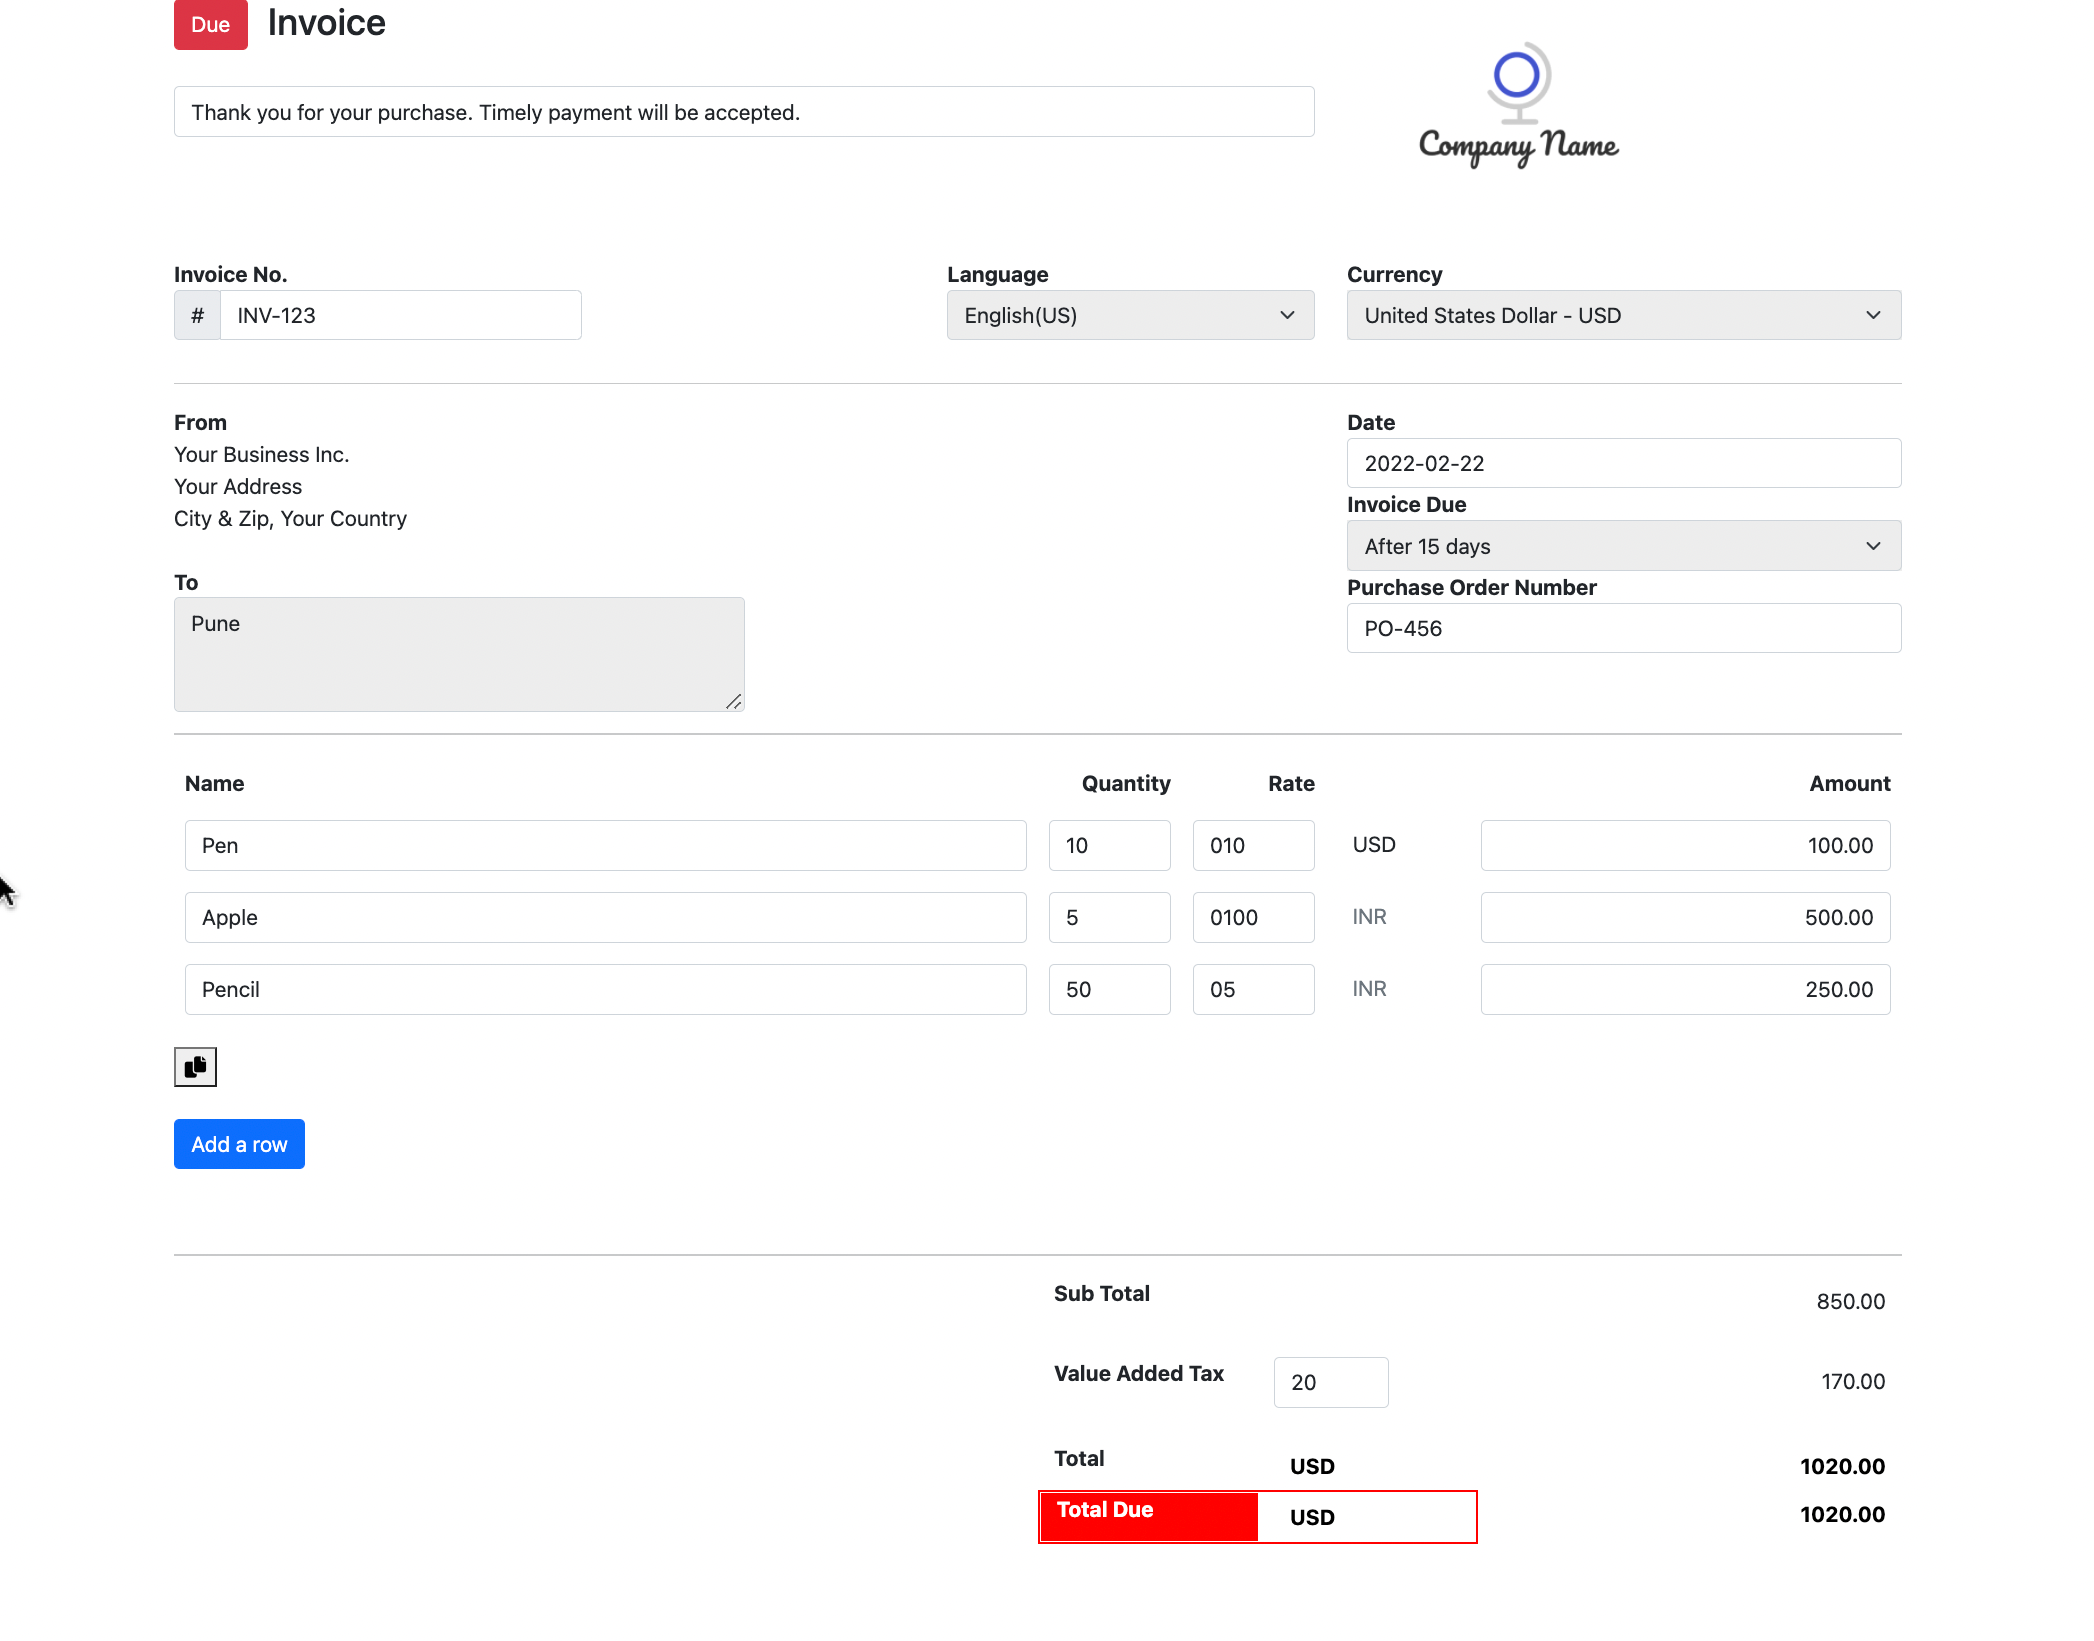
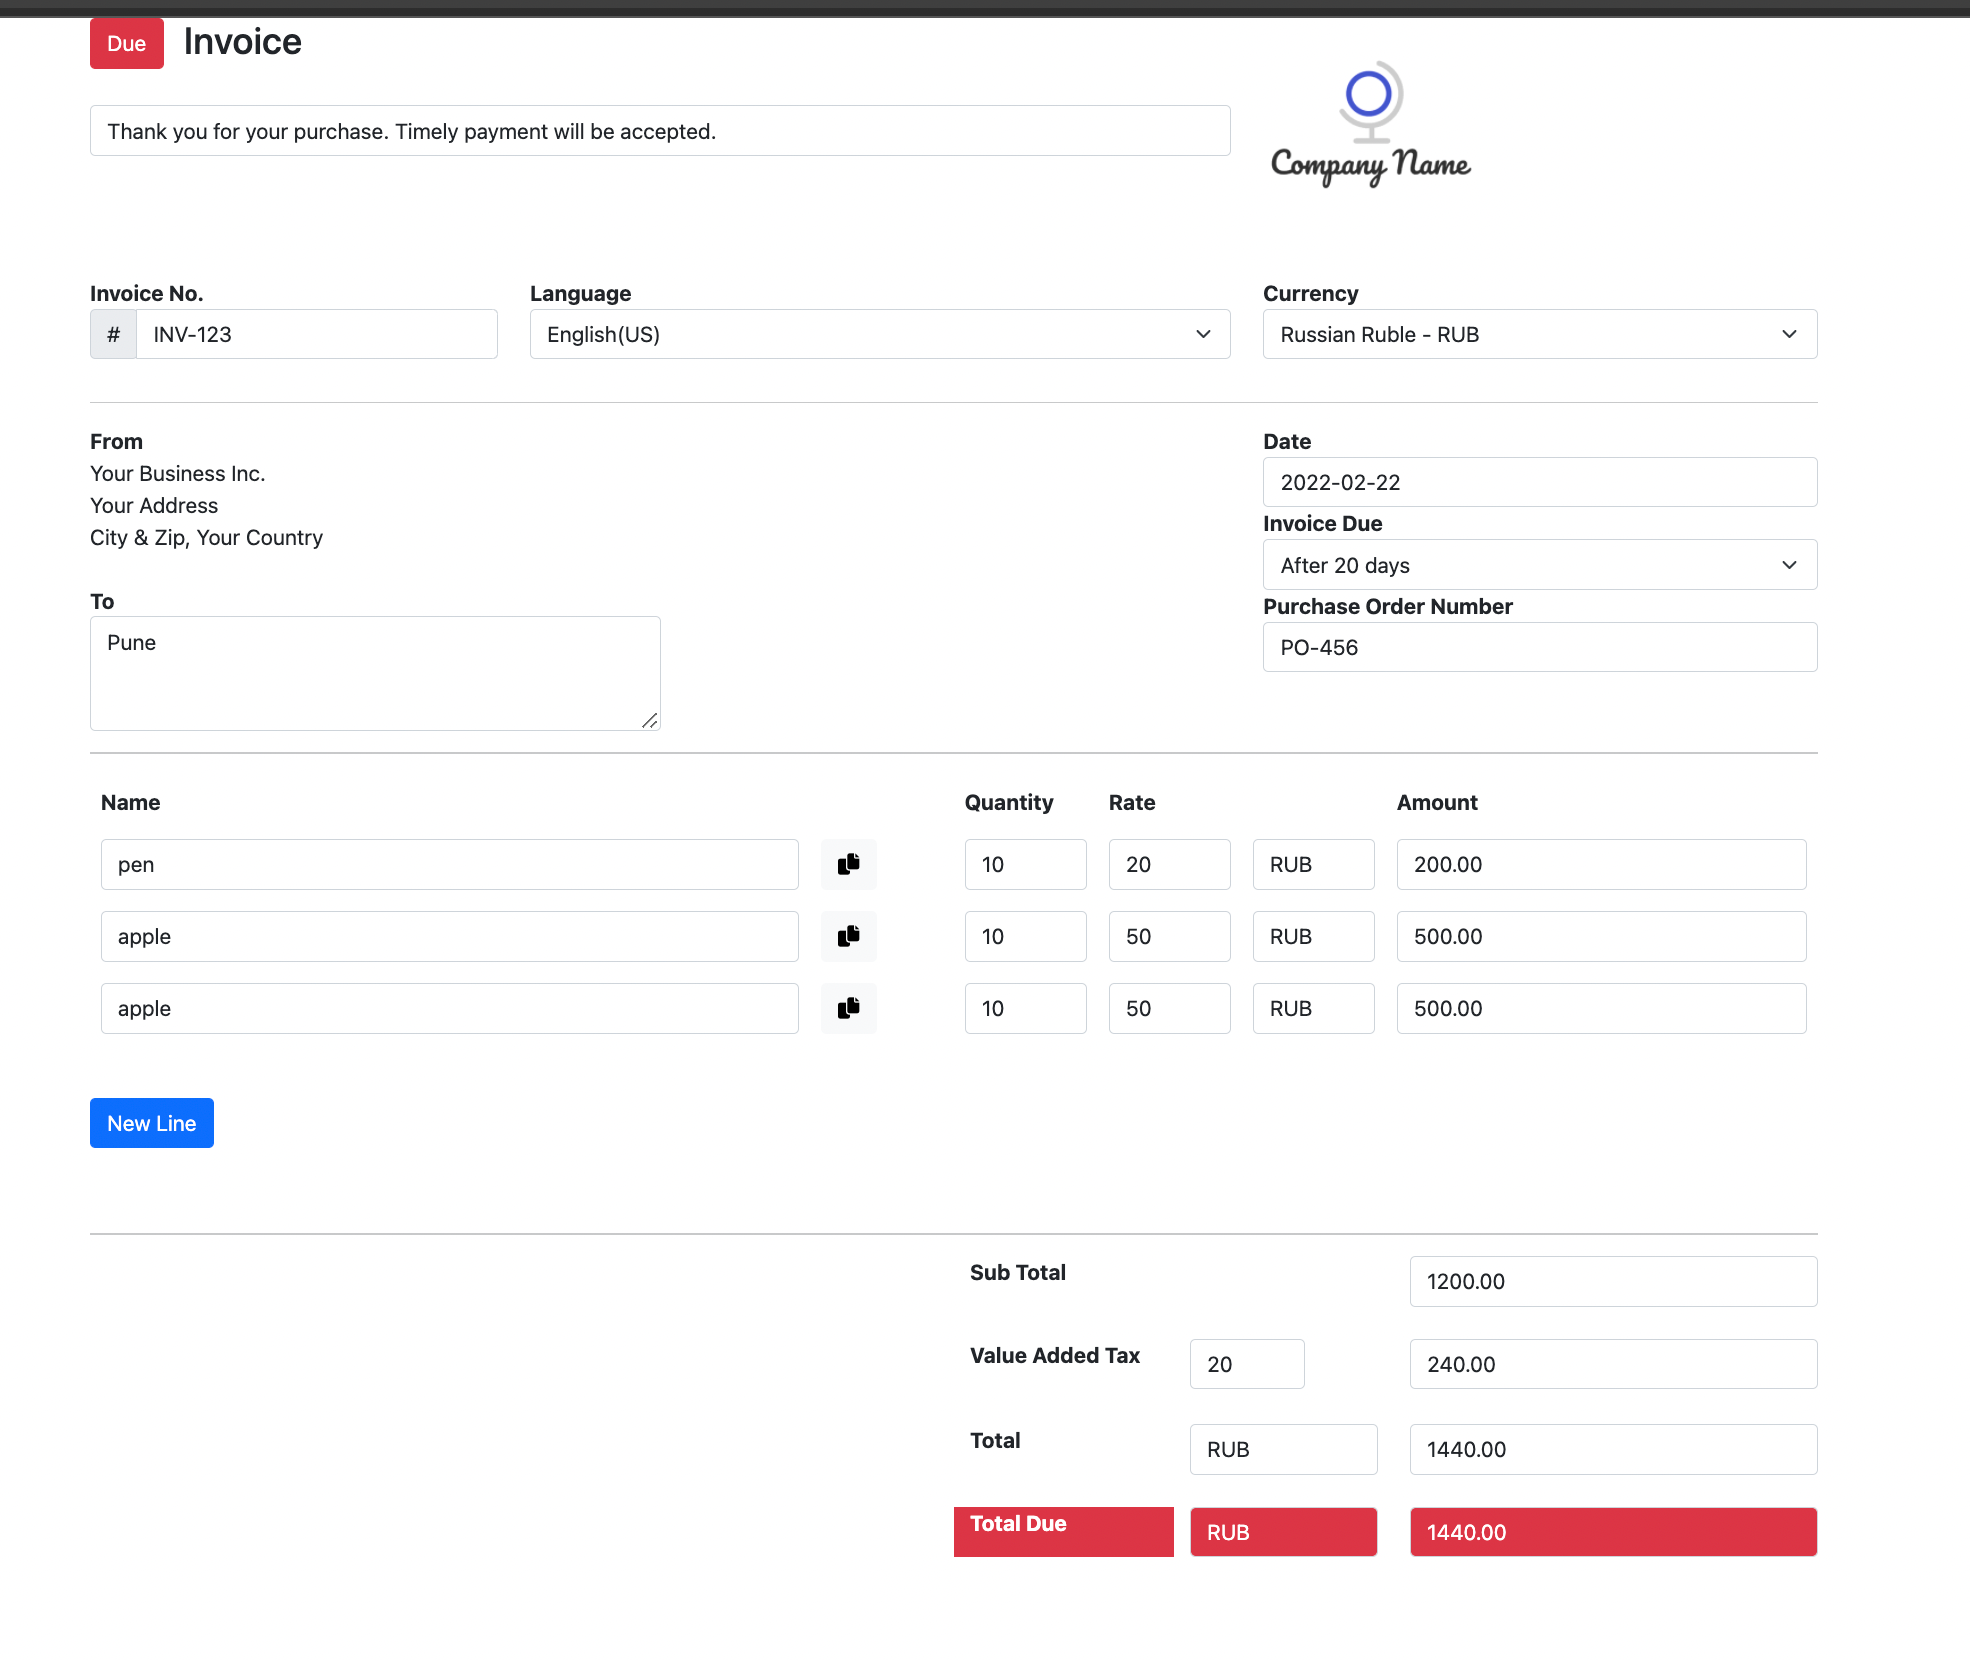
Upload files

diff --git a/invoice/index.html b/invoice/index.html
@@ -143,7 +143,8 @@
 <table class="table table-borderless">
     <thead>
         <tr>
-            <th class="col-sm-6 "> Name</th>
+            <th class="col-sm-5 "> Name</th>
+            <th class="col-sm-1 text-right"></th>
             <th class="col-sm-1 text-right">Quantity</th>
             <th class="col-sm-1 text-right">Rate</th>
             <th class="col-sm-1 text-right"></th>
@@ -152,12 +153,8 @@
     </thead>
     <tbody id="items_table"></tbody>
 </table>
-<button id="clone">
-    <i class="fa-solid fa-copy" ></i>
-</button>
 <br>
-<br>
-<button id="addRow" class="btn btn-primary">Add a row</button><br><br>
+<button id="addRow" class="btn btn-primary">New Line</button><br><br>
 <br>
 
 
@@ -213,7 +210,7 @@
         <div class="col" ></div>
         <div class="col">
             <div class="row" >
-                <div class="col space">
+                <div class="col space" id="dues">
                     <strong>Total </strong>
                 </div>
                 <div class="col">
@@ -227,23 +224,23 @@
         </div>
       </div>
 </tr>
-
+<br>
 <tr>
     <div class="row">
         <div class="col" ></div>
         <div class="col" ></div>
         <div class="col">
             <div class="row" id="redborder">
-                <div class="col space" id="bg">
+                <div class="col space bg-danger text-white" id="bg">
                     <strong>Total Due </strong>
                 </div>
                 <div class="col">
-                    <input type="text" id="bord" class="form-control no-border text-left bold currname" placeholder="INR">
+                    <input type="text" id="bord" class="form-control no-border text-left bold currname bg-danger text-white" placeholder="INR">
                 </div>
               </div>
         </div>
-        <div class="col" >
-            <input type="text" class="form-control text-right bold no-border " class="redd" id="allSum" placeholder="1100.00" />
+        <div class="col " >
+            <input type="text" class="form-control text-right bold no-border bg-danger text-white" id="allSum" placeholder="1100.00" />
         </div>
       </div>
 </tr>

diff --git a/invoice/main.js b/invoice/main.js
@@ -71,6 +71,7 @@ function addItem() {
     var itemRow =
         '<tr id="item" class="rowss">' +
         '<td><input type="text" class="form-control row-name" placeholder="Items you are selling" /></td>' +
+        '<td><button id="clone" class="btn btn-light copy-button"><i class="fa-solid fa-copy" ></i></button></td>' +
         '<td><input type="text" class="form-control update row-quantity " placeholder="100" /></td>' +
         '<td><input type="text" class="form-control update row-price " placeholder="10.00" /></td>' +
         '<td><input type="text"  class="form-control border-right text-left currname" placeholder="INR"></td>'+
@@ -91,13 +92,14 @@ $("#currency").on("change",function(){
     $(".currname").val(selValue);
 });
 
-$('#clone').on('click', () => {
-    const $lastRow = $('#item:first');
-    const $newRow = $lastRow.clone();
-    $newRow.insertAfter($lastRow);
-  });
+// CLONE
+$(document).on('click', '.copy-button', function(){
+    var rawHTML = $(this).parents('tr').clone().insertAfter($(this).parents('tr'));
+    calculateTotals();
+})
 
-  $(function() {
+
+$(function() {
   $("#datepicker").datepicker({
      dateFormat: 'yy-mm-dd'
   });

diff --git a/invoice/style.css b/invoice/style.css
@@ -100,3 +100,7 @@
 #red{
     border:4px solid red
 }
+
+.dues{
+    background-color:red
+}
